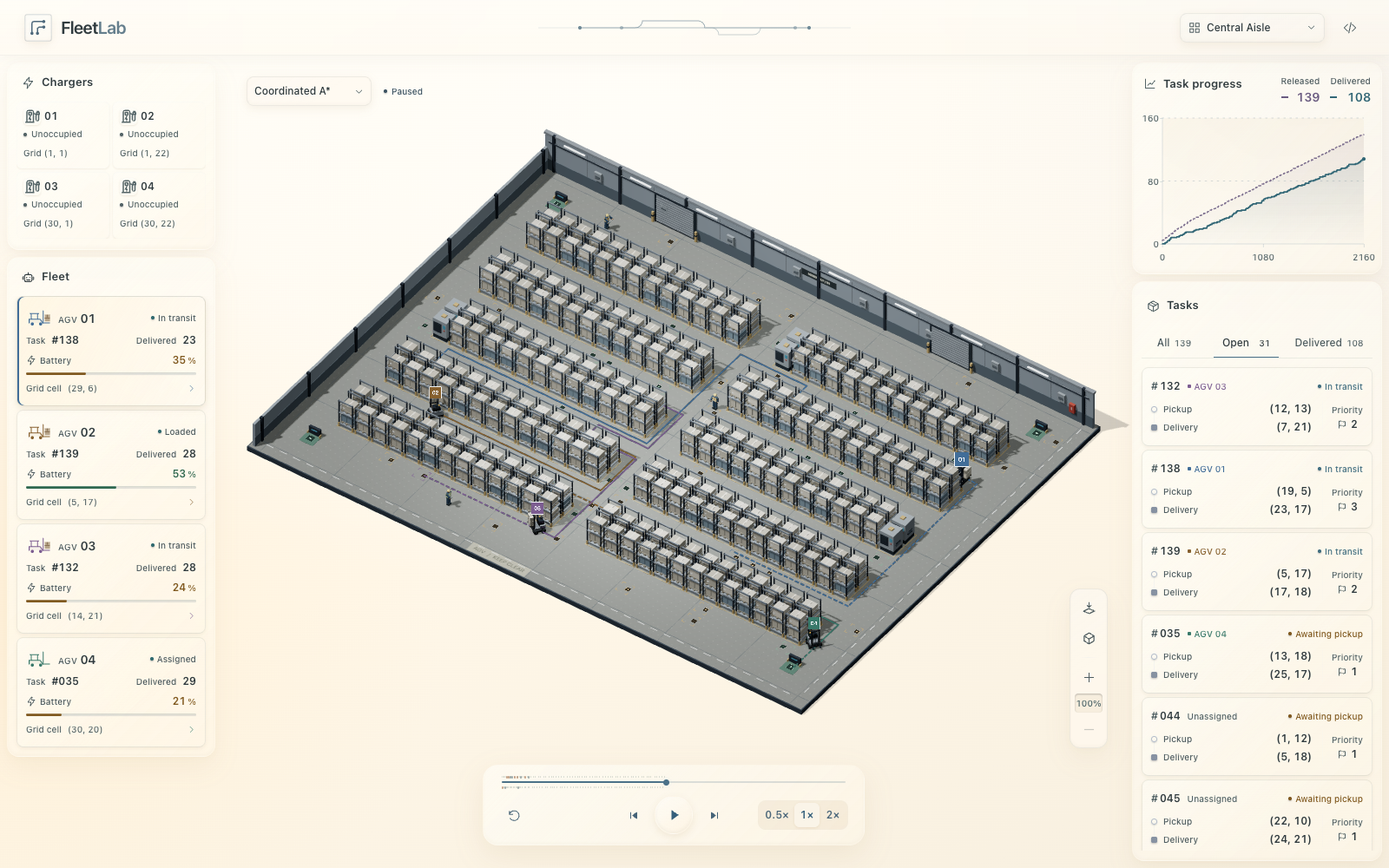
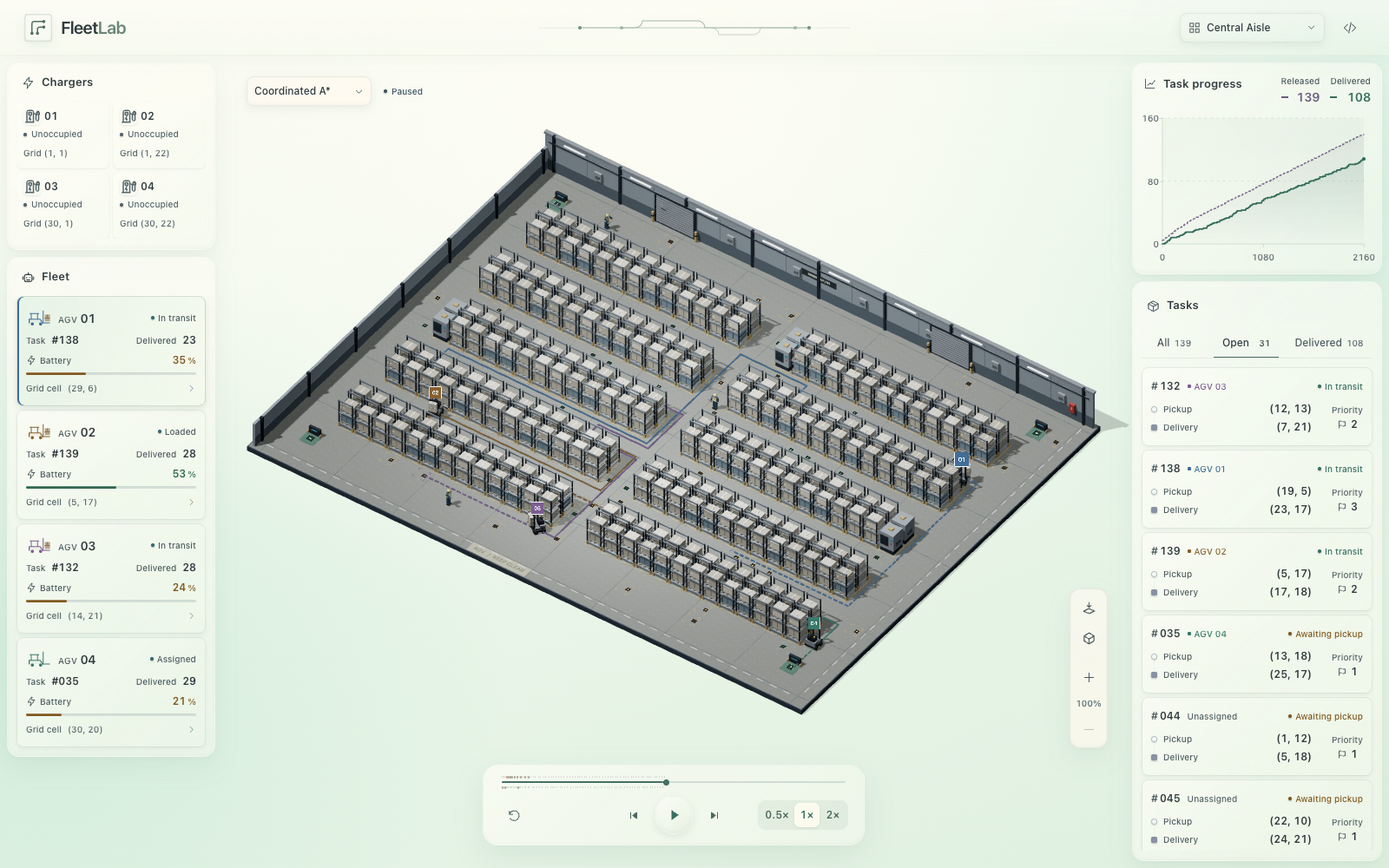
Polish milk-glass dashboard with a fresh mint gradient
Keep the translucent milk-white panels over a brighter mint background.
Unify selection, menu, playback, and chart accents, soften control shadows,
and remove the inset fill and shadow from the camera zoom readout.

Refresh README and social previews. Validated lint, typecheck, Pages build,
and 45 asset, rendered-shell, and Pages tests. Browser checks covered ten
viewport widths, all twelve algorithm/layout combinations, keyboard focus,
reduced-motion and contrast modes, and the 100%-120% zoom controls.

diff --git a/web/app/globals.css b/web/app/globals.css
@@ -1,23 +1,24 @@
 @import "tailwindcss";
 
-/* Soft cream glass, with depth from diffuse shadows rather than bright rims. */
+/* Milk-white glass over a fresh mint gradient, with soft depth and clear states. */
 :root {
-  --canvas: #fbf6ec;
+  --canvas: #edf5ec;
   --surface: #fffdf578;
-  --surface-glaze: linear-gradient(135deg, #fffef861, #fffaf114 48%, #ffeccf29);
-  --surface-raised: linear-gradient(140deg, #fffef87a, #fff9ec26 65%);
-  --surface-hover: linear-gradient(140deg, #fffefab3, #fff7e866 65%);
-  --surface-inset: #b58e5410;
-  --selection: #4b7188;
+  --surface-glaze: linear-gradient(135deg, #fffef861, #fffaf114 48%, #e0f2e32e);
+  --surface-raised: linear-gradient(140deg, #fffef87a, #f4fbed26 65%);
+  --surface-hover: linear-gradient(140deg, #fffefab3, #eef8e466 65%);
+  --surface-selected: linear-gradient(120deg, #d5ecdc85, #f3f8e842);
+  --surface-inset: #71937d12;
+  --selection: #456f63;
   --ink: #303b3f;
   --muted: #4e5c60;
   --faint: #546467;
   --rule: #696d641c;
-  --accent: #416e80;
+  --accent: #396f61;
   --glass-overlay: #fffaf0b8;
-  --glass-edge: inset 0 -2px 4px #9c89650a;
-  --elevation-panel: var(--glass-edge), 0 2px 5px #a27d4908, 0 12px 28px #a27d4914;
-  --elevation-control: var(--glass-edge), 0 3px 10px #a27d491a;
+  --glass-edge: inset 0 -2px 4px #738e6d0a;
+  --elevation-panel: var(--glass-edge), 0 2px 5px #52755e08, 0 12px 28px #52755e14;
+  --elevation-control: var(--glass-edge), 0 3px 10px #52755e1a;
   --charging: #55662e;
   --green: #2f684f;
   --amber: #80591f;
@@ -39,25 +40,25 @@ button, select { min-height: 32px; }
 button, a, select { transition: color 160ms, background-color 160ms, border-color 160ms, box-shadow 160ms; }
 button:focus-visible, a:focus-visible, select:focus-visible, input:focus-visible { outline: 2px solid var(--selection); outline-offset: 3px; }
 button:disabled { opacity: .3; cursor: not-allowed; }
-button:active:not(:disabled) { filter: brightness(1.1); }
+button:active:not(:disabled) { filter: brightness(1.02); }
 a { color: inherit; text-decoration: none; }
 h1, h2, h3, h4, p, dl, dd { margin: 0; }
 strong, b, h1, h2, h3, h4 { font-weight: 600; }
 small { font-size: var(--text-caption); font-weight: 500; }
 [hidden] { display: none !important; }
 .icon { width: 18px; height: 18px; display: inline-block; vertical-align: middle; flex: 0 0 auto; }
-.app-shell { height: 100dvh; min-height: 600px; display: flex; flex-direction: column; background: radial-gradient(ellipse 70% 78% at 46% 14%, #fffefacc, transparent 72%), radial-gradient(ellipse 42% 64% at 0% 70%, #ffe5ba57, transparent 76%), radial-gradient(ellipse 44% 58% at 100% 18%, #e1e8fa47, transparent 76%), linear-gradient(160deg, #fffdf7, #fff7e8 52%, #f7efdf); background-size: 100% 100dvh; background-repeat: no-repeat; }
-.app-header { position: relative; z-index: 3; display: flex; align-items: center; justify-content: space-between; gap: 16px; flex: 0 0 64px; margin: 0; padding: 0 28px; border: 0; border-bottom: 1px solid #77796c14; border-radius: 0; background: linear-gradient(180deg, #fffdf770, #fff5e83d); box-shadow: 0 4px 18px #65533d0c; }
+.app-shell { height: 100dvh; min-height: 600px; display: flex; flex-direction: column; background: radial-gradient(ellipse 70% 78% at 46% 14%, #fffdf5d9, transparent 72%), radial-gradient(ellipse 48% 66% at 0% 78%, #b9e2cc78, transparent 76%), radial-gradient(ellipse 48% 60% at 100% 22%, #c5ead966, transparent 76%), linear-gradient(160deg, #fafbf2, #eaf6e9 52%, #deefdf); background-size: 100% 100dvh; background-repeat: no-repeat; }
+.app-header { position: relative; z-index: 3; display: flex; align-items: center; justify-content: space-between; gap: 16px; flex: 0 0 64px; margin: 0; padding: 0 28px; border: 0; border-bottom: 1px solid #77796c14; border-radius: 0; background: linear-gradient(180deg, #fffdf770, #f0f8e83d); box-shadow: 0 4px 18px #4b725b0c; }
 .brand { display: flex; align-items: center; gap: 10px; flex: 0 0 auto; min-height: 36px; padding: 0; border-radius: 3px; }
-.brand-mark { display: grid; place-items: center; width: 32px; height: 32px; color: #4e697c; transition: color 160ms; filter: none; background: linear-gradient(145deg, #cee5ff12, #bfd4eb02); border-radius: 8px; box-shadow: var(--elevation-control); }
+.brand-mark { display: grid; place-items: center; width: 32px; height: 32px; color: #526f60; transition: color 160ms; filter: none; background: linear-gradient(145deg, #cee5ff12, #bfd4eb02); border-radius: 8px; box-shadow: var(--elevation-control); }
 .brand-mark .brand-symbol { width: 100%; height: 100%; }
 .brand-symbol { flex: 0 0 auto; display: block; }
 .brand-name, .loading-mark { font-size: var(--text-display); font-weight: 600; letter-spacing: -.7px; color: var(--ink); line-height: 1; }
 .brand-name { display: inline-flex; align-items: baseline; letter-spacing: -.6px; transition: color 160ms; text-shadow: 0 1px 0 #f4efe533; }
-.brand-name > span { color: #657f8d; }
+.brand-name > span { color: #6c8777; }
 .brand:hover .brand-mark { color: var(--accent); }
-.brand:hover .brand-name { color: #416e80; }
-.header-routes { position: absolute; left: 50%; top: 50%; transform: translate(-50%, -50%); width: clamp(140px, calc(100vw - 540px), 360px); height: 32px; color: #708b98; opacity: 1; pointer-events: none; filter: drop-shadow(0 1px 0 #f4efe540); }
+.brand:hover .brand-name { color: #396f61; }
+.header-routes { position: absolute; left: 50%; top: 50%; transform: translate(-50%, -50%); width: clamp(140px, calc(100vw - 540px), 360px); height: 32px; color: #789785; opacity: 1; pointer-events: none; filter: drop-shadow(0 1px 0 #f4efe540); }
 .header-actions { display: flex; flex: 0 0 auto; align-items: center; gap: 12px; color: var(--muted); }
 .repository-link { display: grid; place-items: center; width: 34px; height: 34px; border: 0; border-radius: 7px; background: transparent; color: var(--muted); box-shadow: none; }
 .repository-link:hover { color: var(--ink); background: #c6dcef09; }
@@ -65,17 +66,17 @@ small { font-size: var(--text-caption); font-weight: 500; }
 .compact-picker { position: relative; flex: 0 0 auto; }
 .picker-trigger { display: flex; align-items: center; gap: 7px; width: 100%; min-height: 34px; padding: 0 10px; border: 0; border-radius: inherit; background: transparent; color: var(--ink); font: 500 var(--text-body)/16px var(--sans); text-align: left; }
 .picker-trigger:focus { outline: none; }
-.compact-picker:has(.picker-trigger:focus-visible) { box-shadow: inset 0 -2px 0 #698797, var(--elevation-control); }
+.compact-picker:has(.picker-trigger:focus-visible) { box-shadow: inset 0 -2px 0 #668575, var(--elevation-control); }
 .picker-value { display: block; overflow: hidden; text-overflow: ellipsis; white-space: nowrap; }
 .picker-leading { display: grid; place-items: center; color: var(--muted); }
 .picker-chevron { width: 11px; height: 11px; transform: rotate(90deg); transition: transform 160ms cubic-bezier(.2, .8, .2, 1); pointer-events: none; color: var(--faint); }
 .picker-trigger[aria-expanded="true"] .picker-chevron { transform: rotate(270deg); }
 .picker-popover { position: absolute; top: 100%; left: 0; z-index: 30; width: max-content; max-width: calc(100vw - 32px); padding-top: 3px; }
 .picker-menu { --picker-row-height: 28px; position: relative; color-scheme: light; list-style: none; margin: 0; padding: 4px; border: 1px solid #c1d6ef2c; border-radius: 8px; color: var(--ink); background: linear-gradient(145deg, #f4efe52e, transparent 60%), var(--glass-overlay); box-shadow: var(--glass-edge), 0 6px 12px #344b4514, 0 20px 40px #344b4524; font: 500 var(--text-body)/16px var(--sans); font-optical-sizing: auto; letter-spacing: normal; transform-origin: top left; animation: picker-menu-in 100ms ease-out both; }
-.picker-menu::before { content: ""; position: absolute; top: 4px; left: 4px; right: 4px; z-index: 0; height: var(--picker-row-height); border-radius: 4px; background: linear-gradient(120deg, #c8d6e38c, #d5dfe678); transform: translateY(calc(var(--picker-index, 0) * var(--picker-row-height))); transition: transform 80ms ease-out; pointer-events: none; box-shadow: inset 0 1px 0 #e6f2ff12, 0 1px 3px #03071026; }
+.picker-menu::before { content: ""; position: absolute; top: 4px; left: 4px; right: 4px; z-index: 0; height: var(--picker-row-height); border-radius: 4px; background: var(--surface-selected); transform: translateY(calc(var(--picker-index, 0) * var(--picker-row-height))); transition: transform 80ms ease-out; pointer-events: none; box-shadow: inset 0 -1px 2px #5579610c, 0 1px 3px #55796112; }
 .picker-option { position: relative; z-index: 1; display: flex; align-items: center; gap: 3px; height: var(--picker-row-height); padding: 0 8px 0 5px; border-radius: 3px; color: inherit; font: inherit; letter-spacing: inherit; white-space: nowrap; cursor: default; touch-action: manipulation; transition: color 80ms; }
 .picker-option[aria-selected="true"] { font-weight: 600; }
-.picker-option[data-active="true"] { color: #2b4d63; }
+.picker-option[data-active="true"] { color: #2e5f4e; }
 .picker-check { display: grid; place-items: center; flex: 0 0 11px; width: 11px; }
 .picker-check .icon { width: 11px; height: 11px; stroke-width: 2.2; color: currentColor; }
 @keyframes picker-menu-in { from { opacity: 0; } to { opacity: 1; } }
@@ -98,9 +99,9 @@ small { font-size: var(--text-caption); font-weight: 500; }
 .fleet-panel .side-heading h2, .fleet-panel .side-heading h2 > .icon { color: var(--ink); transition: color 180ms; }
 .fleet-cards { display: flex; flex-direction: column; flex: 1; min-height: 0; gap: 4px; padding: 0 10px 10px; overflow-y: auto; overflow-x: hidden; overscroll-behavior-y: contain; scrollbar-width: thin; scrollbar-color: #687c8c60 transparent; scrollbar-gutter: stable; scroll-padding-block: 3px; }
 .fleet-cards:focus-visible { outline: 1px solid var(--selection); outline-offset: -2px; border-radius: 3px; }
-.vehicle-card { position: relative; display: flex; flex-direction: column; flex: 0 0 auto; justify-content: space-between; gap: 5px; min-width: 0; min-height: 124px; padding: 12px 10px; border: 1px solid #6973691f; border-radius: 8px; background: var(--surface-raised); text-align: left; border-bottom-color: #69736929; box-shadow: inset 0 1px 0 #d5eaff05, 0 2px 4px #8f704213; transition: border-color 160ms, background-color 160ms, box-shadow 160ms; }
-.vehicle-card:hover { background: var(--surface-hover); border-color: #69736933; box-shadow: inset 0 1px 0 #d5eaff10, 0 3px 8px #8f704224; }
-.vehicle-card.is-active { border-color: #69736933; background: linear-gradient(120deg, #fff0d47a, #fffaf138); box-shadow: inset 2px 0 var(--vehicle-color), inset 0 1px 0 #e1f2ff14, 0 3px 8px #8f704225; }
+.vehicle-card { position: relative; display: flex; flex-direction: column; flex: 0 0 auto; justify-content: space-between; gap: 5px; min-width: 0; min-height: 124px; padding: 12px 10px; border: 1px solid #6973691f; border-radius: 8px; background: var(--surface-raised); text-align: left; border-bottom-color: #69736929; box-shadow: inset 0 1px 0 #d5eaff05, 0 2px 4px #4d726013; transition: border-color 160ms, background-color 160ms, box-shadow 160ms; }
+.vehicle-card:hover { background: var(--surface-hover); border-color: #69736933; box-shadow: inset 0 1px 0 #d5eaff10, 0 3px 8px #4d726024; }
+.vehicle-card.is-active { border-color: #69736933; background: var(--surface-selected); box-shadow: inset 2px 0 var(--vehicle-color), inset 0 1px 0 #e1f2ff14, 0 3px 8px #4d726025; }
 .vehicle-card:focus-visible, .task-card:focus-visible { outline: 2px solid var(--selection); outline-offset: -2px; }
 .vehicle-card-heading { display: flex; align-items: center; gap: 7px; min-width: 0; }
 .vehicle-symbol { color: var(--vehicle-color); display: grid; place-items: center; filter: drop-shadow(0 1px 0 #f4efe533); }
@@ -127,12 +128,12 @@ small { font-size: var(--text-caption); font-weight: 500; }
 .chargers-panel { flex: 0 0 auto; }
 .chargers-panel .side-heading { flex-basis: 44px; }
 .charger-list { display: grid; grid-template-columns: repeat(2, minmax(0, 1fr)); gap: 4px; list-style: none; margin: 0 10px 12px; padding: 0; border: 0; border-radius: 7px; overflow: hidden; background: transparent; }
-.charger-card { --charger-color: var(--faint); display: flex; flex-direction: column; gap: 3px; min-width: 0; padding: 7px 8px; border: 0; background: var(--surface-raised); border-radius: 6px; box-shadow: inset 0 1px 0 #e1f2ff09, inset 0 0 0 1px #bdd6f10a, 0 1px 2px #8f70421a; }
+.charger-card { --charger-color: var(--faint); display: flex; flex-direction: column; gap: 3px; min-width: 0; padding: 7px 8px; border: 0; background: var(--surface-raised); border-radius: 6px; box-shadow: inset 0 1px 0 #e1f2ff09, inset 0 0 0 1px #bdd6f10a, 0 1px 2px #4d72601a; }
 .charger-card.is-charging { --charger-color: var(--charging); background: linear-gradient(145deg, #d3e2b459, #e7efce24); box-shadow: inset 0 1px 0 #e4edcf12, inset 0 -1px #b8c88e40, inset 0 0 0 1px #b8c88e12; }
 .charger-card.is-occupied { --charger-color: var(--amber); }
 .charger-card-heading { display: flex; flex-wrap: nowrap; align-items: center; justify-content: space-between; gap: 3px; font-variant-numeric: tabular-nums; }
 .charger-card-heading strong { display: flex; align-items: center; gap: 4px; font-size: var(--text-body); font-weight: 600; }
-.charger-symbol { display: grid; place-items: center; flex: 0 0 20px; width: 20px; height: 20px; border-radius: 5px; color: var(--charger-color); background: linear-gradient(145deg, #d5eaff0b, #d5eaff02); box-shadow: inset 0 1px 0 #e1f2ff0c, 0 1px 2px #8f704224; }
+.charger-symbol { display: grid; place-items: center; flex: 0 0 20px; width: 20px; height: 20px; border-radius: 5px; color: var(--charger-color); background: linear-gradient(145deg, #d5eaff0b, #d5eaff02); box-shadow: inset 0 1px 0 #e1f2ff0c, 0 1px 2px #4d726024; }
 .charger-symbol .icon { width: 18px; height: 18px; }
 .charger-battery { margin-left: auto; font-size: var(--text-caption); color: var(--muted); white-space: nowrap; }
 .charger-battery small { margin-left: 1px; font-size: var(--text-caption); }
@@ -164,7 +165,7 @@ small { font-size: var(--text-caption); font-weight: 500; }
 .warehouse-scene { position: absolute; inset: 0; }
 .scene-canvas { position: absolute; inset: 0; min-height: 0; padding: 60px 12px 132px; }
 .scene-canvas canvas { display: block; width: 100%; height: 100%; touch-action: none; position: absolute; inset: 0; }
-.scene-canvas canvas:focus-visible { outline: 1px solid #4b7188b3; outline-offset: -3px; border-radius: 3px; }
+.scene-canvas canvas:focus-visible { outline: 1px solid #456f63b3; outline-offset: -3px; border-radius: 3px; }
 .forklift-notices { position: absolute; inset: 0; overflow: hidden; pointer-events: none; }
 .forklift-notice-stems { position: absolute; inset: 0; width: 100%; height: 100%; overflow: visible; }
 .forklift-notice-stems line { stroke-width: 1; stroke-opacity: .55; }
@@ -183,10 +184,10 @@ small { font-size: var(--text-caption); font-weight: 500; }
 .scene-camera-tools { position: absolute; right: 12px; bottom: 128px; z-index: 2; pointer-events: none; }
 .camera-controls { display: flex; flex-direction: column; align-items: center; gap: 3px; padding: 5px; background: linear-gradient(145deg, #d4e7ff0c, transparent 50%), var(--glass-overlay); border: 1px solid var(--rule); border-radius: 12px; pointer-events: auto; box-shadow: var(--elevation-panel); }
 .camera-controls button { display: grid; place-items: center; min-height: 32px; width: 32px; padding: 0; border: 0; background: transparent; color: var(--muted); border-radius: 7px; }
-.camera-controls button:hover { color: var(--ink); background: linear-gradient(145deg, #d4e7ff14, #d4e7ff07); box-shadow: inset 0 1px 0 #e4f1ff12, 0 2px 4px #03070d30; }
+.camera-controls button:hover { color: var(--ink); background: var(--surface-hover); box-shadow: var(--elevation-control); }
 .camera-controls button:focus-visible { outline-offset: -2px; }
 .camera-controls svg { width: 17px; height: 17px; }
-.camera-controls output { display: grid; place-items: center; min-height: 22px; min-width: 32px; font-size: var(--text-caption); font-variant-numeric: tabular-nums; text-align: center; color: #465f64; background: #b997631a; border-radius: 4px; box-shadow: inset 0 1px 2px #02060c40, 0 1px 0 #e4f1ff07; }
+.camera-controls output { display: grid; place-items: center; min-height: 22px; min-width: 32px; font-size: var(--text-caption); font-variant-numeric: tabular-nums; text-align: center; color: #465f64; }
 .camera-divider { width: 20px; height: 1px; background: linear-gradient(90deg, transparent, #c6dcef26, transparent); margin: 3px 0; }
 .closure-status { position: absolute; top: 54px; left: 18px; z-index: 2; pointer-events: none; color: var(--amber); font-size: var(--text-caption); padding: 4px 8px; border: 1px solid #b99d6652; border-radius: 6px; background: #fff5dccc; }
 .task-focus-chip { position: absolute; top: 54px; right: 18px; z-index: 2; display: flex; gap: 12px; align-items: center; min-height: 28px; padding: 0 9px; background: linear-gradient(145deg, #d7eaff12, transparent), var(--glass-overlay); border: 1px solid #c2cfdf30; border-radius: 6px; color: var(--selection); font-size: var(--text-body); box-shadow: var(--elevation-control); }
@@ -197,15 +198,15 @@ small { font-size: var(--text-caption); font-weight: 500; }
 .scene-error > svg { width: 16px; height: 16px; color: var(--accent); }
 .scene-error button, .error-shell button { padding: 6px 16px; border: 1px solid #ffffff18; border-radius: 3px; background: var(--surface-raised); color: var(--ink); }
 
-.replay-controls { --replay-highlight: #4b7188; --replay-track: #718b9a40; flex: 0 0 auto; margin: 0 auto; border: 1px solid transparent; padding: 9px 18px 12px; background: var(--surface-glaze), var(--surface); position: absolute; z-index: 2; left: 12px; right: 12px; bottom: 18px; max-width: 440px; border-radius: 18px; box-shadow: var(--glass-edge), 0 12px 32px #a27d491c; }
+.replay-controls { --replay-highlight: #456f63; --replay-track: #718b9a40; flex: 0 0 auto; margin: 0 auto; border: 1px solid transparent; padding: 9px 18px 12px; background: var(--surface-glaze), var(--surface); position: absolute; z-index: 2; left: 12px; right: 12px; bottom: 18px; max-width: 440px; border-radius: 18px; box-shadow: var(--glass-edge), 0 12px 32px #52755e1c; }
 .replay-controls :is(button, input):focus-visible { outline: 2px solid var(--replay-highlight); outline-offset: 3px; }
 .timeline-control { position: relative; height: 24px; margin: 0 3px; }
 .timeline-control input { appearance: none; position: relative; z-index: 2; display: block; width: 100%; height: 20px; margin: 0; border-radius: 4px; cursor: pointer; background: transparent; }
 .timeline-control input::-webkit-slider-runnable-track { height: 2px; background: linear-gradient(90deg, var(--replay-highlight) var(--timeline-progress), var(--replay-track) var(--timeline-progress)); border-radius: 2px; }
-.timeline-control input::-webkit-slider-thumb { appearance: none; width: 7px; height: 7px; margin-top: -2.5px; border-radius: 50%; background: #4b7188; border: 0; box-shadow: 0 0 0 3px #c6dcef0c, 0 0 9px #c6dcef26; }
+.timeline-control input::-webkit-slider-thumb { appearance: none; width: 7px; height: 7px; margin-top: -2.5px; border-radius: 50%; background: #456f63; border: 0; box-shadow: 0 0 0 3px #c6dcef0c, 0 0 9px #c6dcef26; }
 .timeline-control input::-moz-range-track { height: 2px; border-radius: 2px; background: var(--replay-track); }
 .timeline-control input::-moz-range-progress { height: 2px; border-radius: 2px; background: var(--replay-highlight); }
-.timeline-control input::-moz-range-thumb { width: 7px; height: 7px; border: 0; border-radius: 50%; background: #4b7188; box-shadow: 0 0 0 3px #c6dcef0c, 0 0 9px #c6dcef26; }
+.timeline-control input::-moz-range-thumb { width: 7px; height: 7px; border: 0; border-radius: 50%; background: #456f63; box-shadow: 0 0 0 3px #c6dcef0c, 0 0 9px #c6dcef26; }
 .timeline-control input:hover::-webkit-slider-thumb, .timeline-control input:focus-visible::-webkit-slider-thumb { box-shadow: 0 0 0 4px #c6dcef18, 0 0 12px #c6dcef33; }
 .timeline-control input:hover::-moz-range-thumb, .timeline-control input:focus-visible::-moz-range-thumb { box-shadow: 0 0 0 4px #c6dcef18, 0 0 12px #c6dcef33; }
 .timeline-events { position: absolute; inset: 0; pointer-events: none; }
@@ -216,28 +217,28 @@ small { font-size: var(--text-caption); font-weight: 500; }
 .timeline-event:hover::after, .timeline-event:focus-visible::after { background: var(--ink); opacity: 1; }
 .transport-row { position: relative; display: grid; grid-template-columns: minmax(0, 1fr) auto minmax(0, 1fr); align-items: center; gap: 0; width: 100%; margin: 2px auto 0; padding: 0; border: 0; background: transparent; }
 .transport-controls { grid-column: 2; display: flex; align-items: center; gap: 8px; }
-.transport-controls button { display: grid; place-items: center; min-height: 34px; width: 30px; padding: 0; border: 1px solid transparent; background: transparent; color: #456378; border-radius: 9px; }
-.transport-controls button:hover:not(:disabled) { background: #c6dcef0b; color: #355f7b; }
-.transport-controls .restart-button { position: absolute; left: 0; width: 34px; color: #4d687b; }
+.transport-controls button { display: grid; place-items: center; min-height: 34px; width: 30px; padding: 0; border: 1px solid transparent; background: transparent; color: #4b6960; border-radius: 9px; }
+.transport-controls button:hover:not(:disabled) { background: #c6dcef0b; color: var(--accent); }
+.transport-controls .restart-button { position: absolute; left: 0; width: 34px; color: #4b6960; }
 .transport-controls .icon { width: 15px; height: 15px; }
 .transport-controls .step-button .icon { fill: currentColor; stroke-width: 1.3; }
-.transport-controls .play-button { min-height: 44px; width: 44px; background: linear-gradient(145deg, #fffdf8bf, #fff0d966); color: #355f7b; border: 1px solid transparent; border-radius: 50%; box-shadow: inset 0 -2px 4px #76796d12, 0 3px 10px #a27d4924; }
+.transport-controls .play-button { min-height: 44px; width: 44px; background: linear-gradient(145deg, #fffdf8bf, #dcefdc85); color: var(--accent); border: 1px solid transparent; border-radius: 50%; box-shadow: inset 0 -2px 4px #76796d12, 0 3px 10px #52755e24; }
 .transport-controls button, .speed-control button, .camera-controls button { transition: color 160ms, background-color 160ms, border-color 160ms, box-shadow 160ms, transform 120ms; }
 .transport-controls button:active:not(:disabled), .speed-control button:active:not(:disabled), .camera-controls button:active:not(:disabled) { transform: translateY(1px); }
-.transport-controls .play-button:hover:not(:disabled) { background: linear-gradient(145deg, #fffefad9, #fff4e28c); box-shadow: inset 0 -2px 4px #76796d12, 0 4px 12px #a27d492e; }
-.transport-controls .play-button[aria-pressed="true"] { background: linear-gradient(145deg, #dce3df, #cfd9d4); box-shadow: inset 0 1px 3px #526b6021, 0 2px 6px #a27d491a; }
+.transport-controls .play-button:hover:not(:disabled) { background: linear-gradient(145deg, #fffefad9, #e5f4e1a6); box-shadow: inset 0 -2px 4px #76796d12, 0 4px 12px #52755e2e; }
+.transport-controls .play-button[aria-pressed="true"] { background: linear-gradient(145deg, #e0f3e5d9, #cce6d3b3); box-shadow: inset 0 1px 3px #526b6021, 0 2px 6px #52755e1a; }
 .transport-controls .play-button .icon { width: 20px; height: 20px; fill: currentColor; stroke-width: 0; }
-.speed-control { grid-column: 3; justify-self: end; display: flex; align-items: center; gap: 1px; flex: 0 0 auto; border: 1px solid #c6dcef0b; border-radius: 9px; padding: 2px; background: #b997631a; }
-.speed-control button { min-height: 28px; min-width: 29px; padding: 0 5px; border: 0; border-radius: 6px; background: transparent; color: #4d687b; font-size: var(--text-body); font-weight: 600; font-variant-numeric: tabular-nums; white-space: nowrap; }
-.speed-control button:hover:not(:disabled) { background: #c6dcef0a; color: #355f7b; }
-.speed-control button.is-active { color: #355f7b; background: #faf5e9e0; box-shadow: 0 1px 3px #a27d4924; }
+.speed-control { grid-column: 3; justify-self: end; display: flex; align-items: center; gap: 1px; flex: 0 0 auto; border: 1px solid #c6dcef0b; border-radius: 9px; padding: 2px; background: #6a917318; }
+.speed-control button { min-height: 28px; min-width: 29px; padding: 0 5px; border: 0; border-radius: 6px; background: transparent; color: #4b6960; font-size: var(--text-body); font-weight: 600; font-variant-numeric: tabular-nums; white-space: nowrap; }
+.speed-control button:hover:not(:disabled) { background: #c6dcef0a; color: var(--accent); }
+.speed-control button.is-active { color: var(--accent); background: #fffdf1d9; box-shadow: 0 1px 3px #52755e24; }
 
 .task-panel-content { display: flex; flex-direction: column; flex: 1; min-height: 0; padding: 0 10px 14px; }
 .task-filters { display: flex; flex: 0 0 34px; align-items: stretch; margin: 0 0 10px; padding: 0; border-radius: 0; background: transparent; gap: 8px; border-bottom: 1px solid #6c898221; }
 .task-filters button { flex: 1; display: flex; align-items: center; justify-content: center; gap: 5px; padding: 0 2px; min-height: 28px; border: 0; border-radius: 0; background: transparent; color: var(--muted); font-size: var(--text-body); white-space: nowrap; border-bottom: 1px solid transparent; font-variant-numeric: tabular-nums; }
 .task-filters button:hover { color: var(--ink); background: #ffffff03; }
 .task-filters button[data-filter="done"] { flex: 1.35; }
-.task-filters button.is-active { color: var(--ink); background: linear-gradient(0deg, #c6dcef0a, transparent 65%); box-shadow: 0 1px 0 #d7e5f51a; border-bottom-color: #4b7188; }
+.task-filters button.is-active { color: var(--ink); background: linear-gradient(0deg, #c6dcef0a, transparent 65%); box-shadow: 0 1px 0 #d7e5f51a; border-bottom-color: #456f63; }
 .task-filters button span { color: var(--faint); font-size: var(--text-caption); min-width: 3ch; text-align: right; }
 .task-filters button.is-active span { color: var(--ink); }
 .task-list { display: flex; flex-direction: column; flex: 1; min-height: 0; gap: 4px; list-style: none; padding: 3px; margin: -3px; overflow-y: auto; overflow-x: hidden; overscroll-behavior-y: contain; scrollbar-width: thin; scrollbar-color: #687c8c60 transparent; scrollbar-gutter: stable; scroll-padding-block: 3px; }
@@ -245,9 +246,9 @@ small { font-size: var(--text-caption); font-weight: 500; }
 .task-list::-webkit-scrollbar { width: 5px; }
 .task-list::-webkit-scrollbar-thumb { background: #687c8c60; border-radius: 3px; }
 .task-row { flex: 0 0 auto; min-width: 0; }
-.task-card { position: relative; display: grid; gap: 8px; min-height: 86px; width: 100%; padding: 12px 10px; border: 1px solid #6973691f; border-radius: 8px; background: var(--surface-raised); text-align: left; border-bottom-color: #69736929; box-shadow: inset 0 1px 0 #d5eaff04, 0 2px 4px #8f704213; transition: border-color 160ms, background-color 160ms, box-shadow 160ms; }
-.task-card:hover { border-color: #69736933; background: var(--surface-hover); box-shadow: inset 0 1px 0 #d5eaff10, 0 3px 8px #8f704224; }
-.task-card.is-selected { border-color: #69736933; background: linear-gradient(120deg, #fff0d47a, #fffaf138); box-shadow: inset 2px 0 var(--selection), inset 0 1px 0 #e1f2ff14, 0 3px 8px #8f704225; }
+.task-card { position: relative; display: grid; gap: 8px; min-height: 86px; width: 100%; padding: 12px 10px; border: 1px solid #6973691f; border-radius: 8px; background: var(--surface-raised); text-align: left; border-bottom-color: #69736929; box-shadow: inset 0 1px 0 #d5eaff04, 0 2px 4px #4d726013; transition: border-color 160ms, background-color 160ms, box-shadow 160ms; }
+.task-card:hover { border-color: #69736933; background: var(--surface-hover); box-shadow: inset 0 1px 0 #d5eaff10, 0 3px 8px #4d726024; }
+.task-card.is-selected { border-color: #69736933; background: var(--surface-selected); box-shadow: inset 2px 0 var(--selection), inset 0 1px 0 #e1f2ff14, 0 3px 8px #4d726025; }
 .task-card-heading { display: flex; align-items: center; justify-content: space-between; gap: 6px; min-width: 0; }
 .task-identity { display: flex; align-items: center; gap: 8px; min-width: 0; }
 .task-card-heading strong { flex: 0 0 auto; font-size: var(--text-body); color: var(--ink); font-weight: 600; font-variant-numeric: tabular-nums; }
@@ -280,25 +281,25 @@ small { font-size: var(--text-caption); font-weight: 500; }
 .chart-legend > span { display: grid; grid-template-columns: 8px minmax(3ch, 1fr); align-items: center; column-gap: 4px; row-gap: 3px; font-size: var(--text-caption); line-height: 13px; color: var(--muted); }
 .chart-legend-label { grid-column: 1 / -1; grid-row: 1; }
 .series-released { --series-color: #695a80; }
-.series-delivered { --series-color: #326776; }
+.series-delivered { --series-color: #356d5b; }
 .chart-legend i { grid-column: 1; grid-row: 2; width: 8px; height: 2px; background: var(--series-color); }
 .chart-legend .series-released i { height: 0; border-top: 2px dashed var(--series-color); background: none; }
 .chart-legend strong { grid-column: 2; grid-row: 2; font-size: var(--text-value); font-weight: 600; line-height: 17px; color: var(--series-color); font-variant-numeric: tabular-nums; text-align: right; text-shadow: 0 1px 0 #f4efe533; }
 .task-history-chart { display: grid; grid-template-columns: 18px minmax(0, 1fr); grid-template-rows: minmax(0, 1fr) 24px; grid-template-areas: "y plot" ". x"; flex: 1; min-height: 104px; column-gap: 4px; padding-right: 8px; }
 .chart-y-axis { grid-area: y; position: relative; color: var(--faint); font-size: var(--text-caption); font-variant-numeric: tabular-nums; }
 .chart-y-axis > span { position: absolute; right: 0; transform: translateY(-50%); line-height: 1; }
-.chart-y-axis > span::after { content: ""; position: absolute; top: 50%; right: -4px; width: 3px; height: 1px; background: #93a8b54d; }
-.chart-plot-area { grid-area: plot; position: relative; min-width: 0; min-height: 0; background: linear-gradient(180deg, #d0a96912, #fffaf10a); border-radius: 4px; box-shadow: inset 0 1px 0 #d5eaff04; }
+.chart-y-axis > span::after { content: ""; position: absolute; top: 50%; right: -4px; width: 3px; height: 1px; background: #7d9e8647; }
+.chart-plot-area { grid-area: plot; position: relative; min-width: 0; min-height: 0; background: linear-gradient(180deg, #6b997b0f, #fffaf10a); border-radius: 4px; box-shadow: inset 0 1px 0 #d5eaff04; }
 .task-history-plot { position: absolute; inset: 0; display: block; width: 100%; height: 100%; overflow: visible; }
-.chart-gridline { stroke: #647e9140; stroke-width: 1; stroke-dasharray: 2 5; stroke-linecap: round; }
-.chart-axis-line { fill: none; stroke: #93a8b54d; stroke-width: 1; stroke-linecap: round; stroke-linejoin: round; }
+.chart-gridline { stroke: #6d937c33; stroke-width: 1; stroke-dasharray: 2 5; stroke-linecap: round; }
+.chart-axis-line { fill: none; stroke: #7d9e8647; stroke-width: 1; stroke-linecap: round; stroke-linejoin: round; }
 .task-area { stroke: none; pointer-events: none; }
 .task-series { fill: none; stroke: var(--series-color); stroke-width: 1.75; stroke-linejoin: round; stroke-linecap: round; }
 .task-series.series-released { stroke-width: 1.5; stroke-dasharray: 3 3; opacity: .85; }
 .chart-endpoint { fill: none; stroke: var(--series-color); stroke-width: 4; stroke-linecap: round; pointer-events: none; }
 .chart-x-axis { grid-area: x; position: relative; color: var(--faint); font-size: var(--text-caption); font-variant-numeric: tabular-nums; }
 .chart-x-tick { position: absolute; top: 8px; transform: translateX(-50%); line-height: 14px; }
-.chart-x-tick::before { content: ""; position: absolute; top: -8px; left: 50%; width: 1px; height: 4px; background: #93a8b54d; }
+.chart-x-tick::before { content: ""; position: absolute; top: -8px; left: 50%; width: 1px; height: 4px; background: #7d9e8647; }
 .loading-shell { min-height: 100dvh; display: flex; flex-direction: column; justify-content: center; align-items: center; gap: 16px; background: var(--canvas); color: #344b46; text-align: center; padding: 24px; }
 .loading-shell > .brand-symbol { width: 48px; height: 48px; color: #344b46; }
 .error-shell h1 { font-size: var(--text-display); color: #293d38; }
@@ -431,7 +432,7 @@ small { font-size: var(--text-caption); font-weight: 500; }
   .side-panel { -webkit-backdrop-filter: none; backdrop-filter: none; }
 }
 @media (prefers-reduced-transparency: reduce), (prefers-contrast: more) {
-  :root { --surface: #fffaf0; --surface-raised: #fffdf6; --surface-hover: #fff1d8; --surface-inset: #f5e6cd; --glass-overlay: #fffaf0; }
+  :root { --surface: #fffaf0; --surface-raised: #fffdf6; --surface-hover: #e3f0df; --surface-inset: #f5e6cd; --glass-overlay: #fffaf0; }
   .app-header, .side-panel, .picker-menu, .camera-controls, .replay-controls { background: var(--surface); -webkit-backdrop-filter: none; backdrop-filter: none; }
 }
 @media (prefers-reduced-motion: reduce) {

diff --git a/web/app/layout.tsx b/web/app/layout.tsx
@@ -48,7 +48,7 @@ export const metadata: Metadata = {
 
 export const viewport: Viewport = {
   colorScheme: "light",
-  themeColor: "#fbf6ec",
+  themeColor: "#edf5ec",
 };
 
 export default function RootLayout({ children }: Readonly<{ children: React.ReactNode }>) {

diff --git a/README.md b/README.md
@@ -12,7 +12,7 @@ Coordinated forklifts. Shared factory floors. Interactive 3D simulation replays.
 
 </div>
 
-[![FleetLab console with a 3D factory, forklift routes, fleet and charger status, task progress, and a compact task queue](docs/assets/replay-explorer.png?v=milk-glass-20261113)](https://revincxt.github.io/FleetLab/)
+[![FleetLab console with a 3D factory, forklift routes, fleet and charger status, task progress, and a compact task queue](docs/assets/replay-explorer.png?v=mint-glass-20261113)](https://revincxt.github.io/FleetLab/)
 
 ## Overview
 
